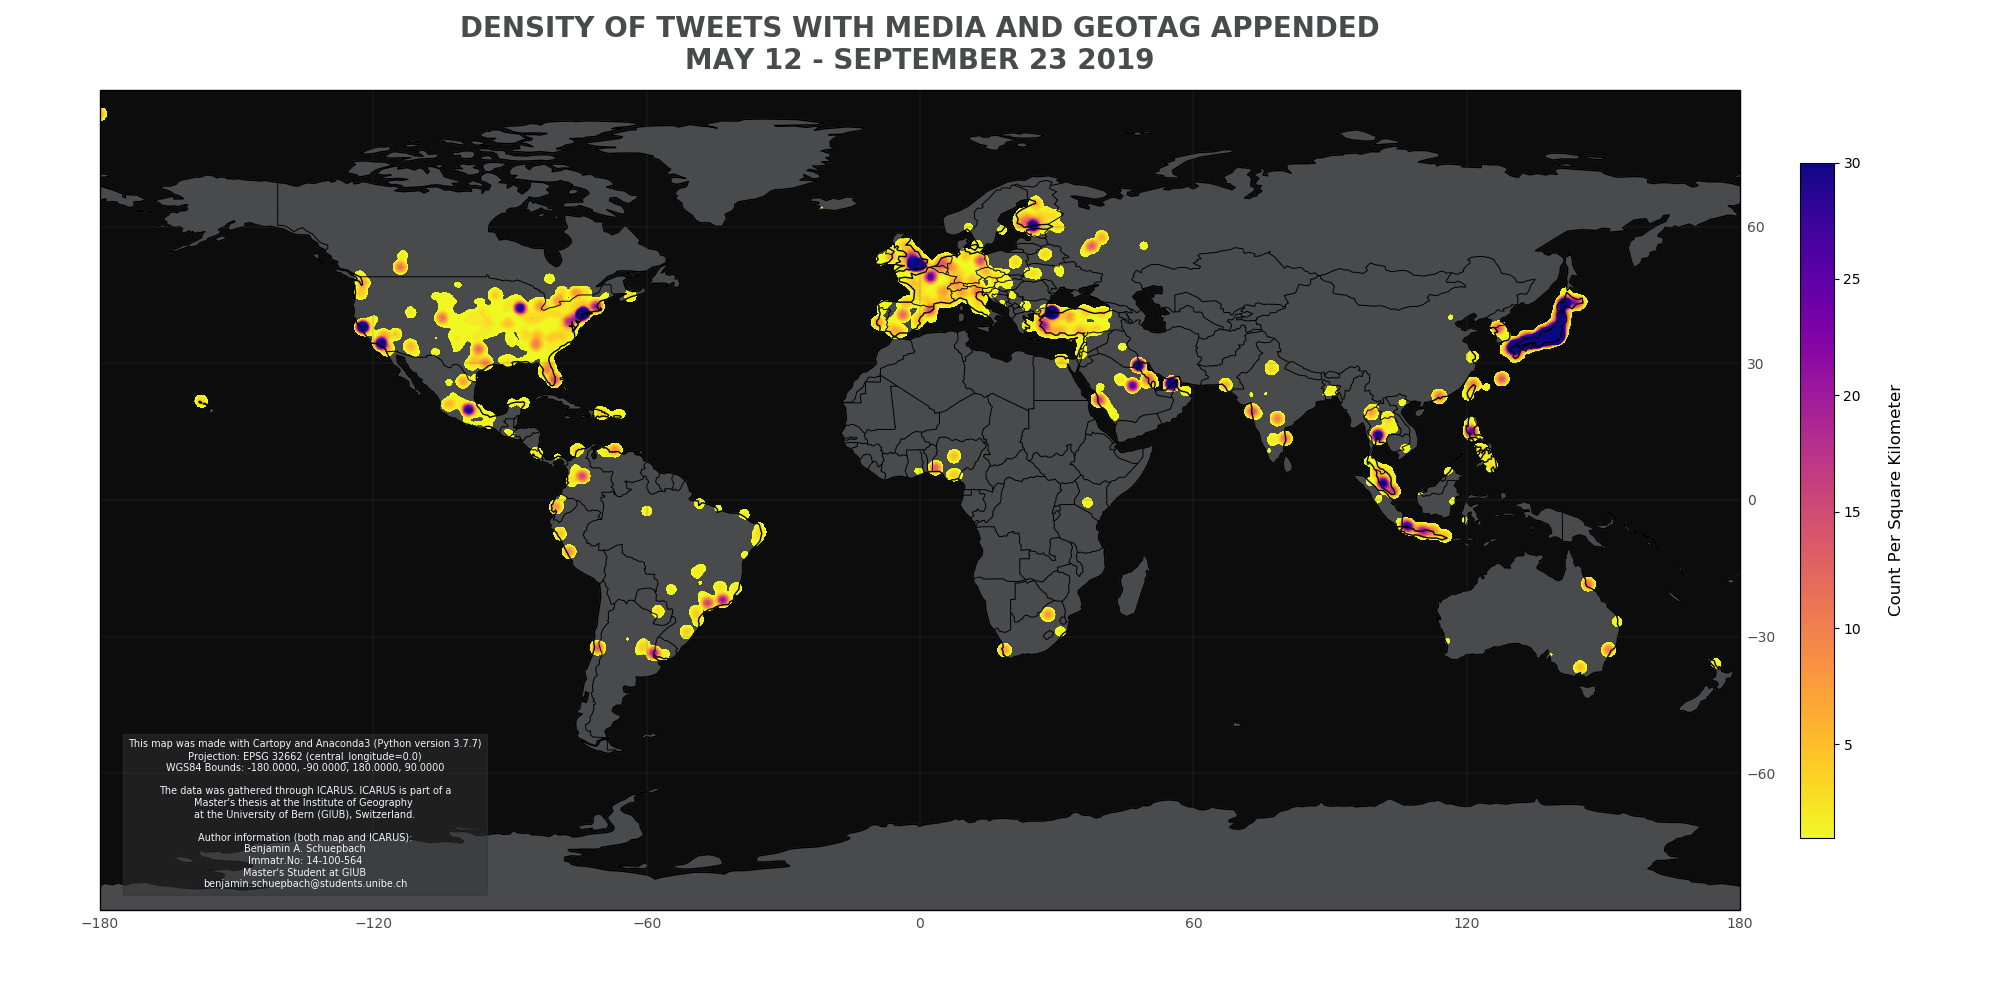
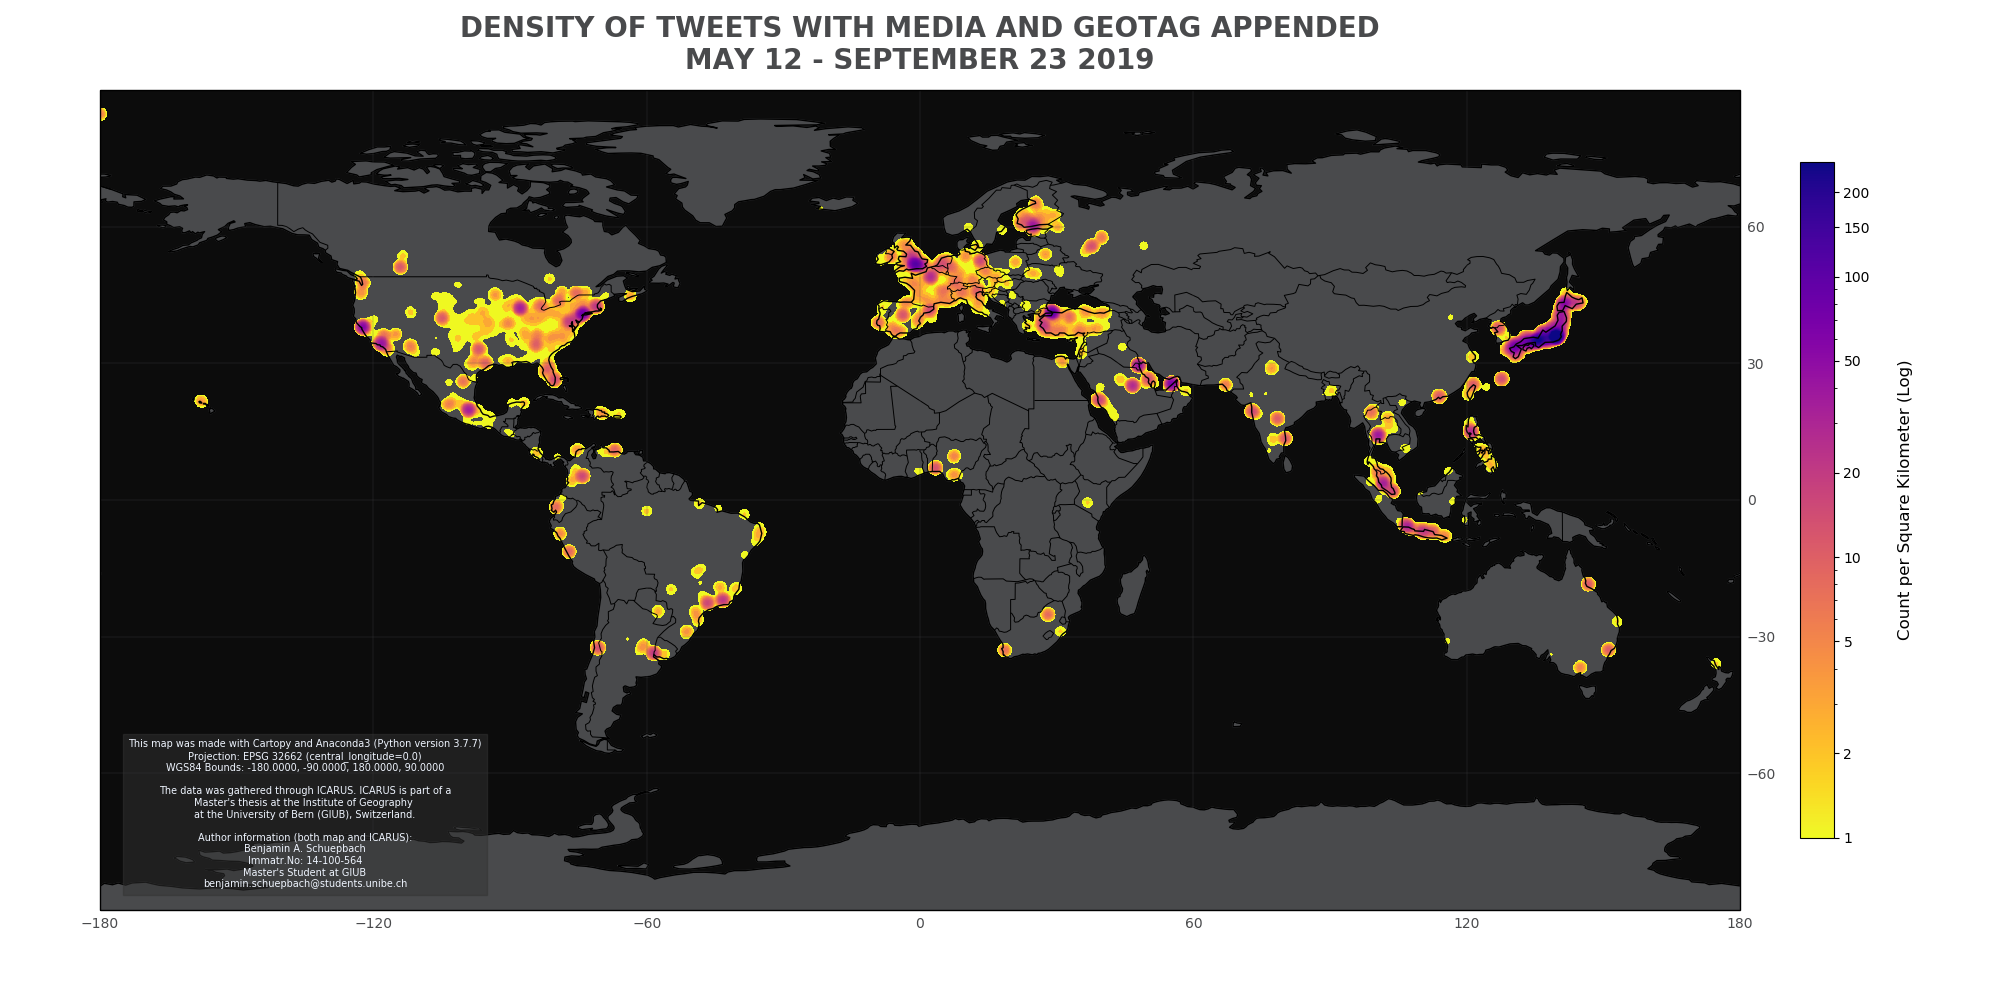
Density Mapping now complete with log scale

diff --git a/ICARUSmapper.py b/ICARUSmapper.py
@@ -7,7 +7,8 @@ from cartopy.io.shapereader import Reader
 from cartopy.feature import ShapelyFeature
 from matplotlib.image import imread
 import numpy as np
-from osgeo import gdal
+import matplotlib as mpl
+
 
 thresh = [0.9, 0.87, 0.85, 0.83, 0.8, 0.7, 0.6, 0.5]
 issLog = 'input_data/iss_log/ISS_info.txt'
@@ -447,7 +448,7 @@ def barebonesHarvests(proj, delimiter=', ', issLog=None):
     print("done\n")
     plt.show()
 
-def mapDensityFromImage():
+def mapHarvestDensityFromImage():
     # set up map, aspect ratio is 2:1
     fig_height = 20
     fig = plt.figure(figsize=(fig_height, fig_height / 2))
@@ -478,22 +479,23 @@ def mapDensityFromImage():
     npimg = np.where(npimg<0.00001,np.nan,npimg)
 
 
+
     print(npimg.shape)
 
-    #plot the map
-    map = plt.imshow(npimg[:,:,0], origin='upper', extent=[-180, 180, -86, 86], alpha=1, cmap=cm.plasma_r, transform=proj, vmax=30)
+    #plot the map, normalize the colors with a log scale
+    map = plt.imshow(npimg[:,:,0], origin='upper', extent=[-180, 180, -86, 86], alpha=1, norm=mpl.colors.LogNorm(), cmap=cm.plasma_r, transform=proj)
 
 
 
     # add colorbar and legend
-    bar = plt.colorbar(map, shrink=0.75, pad=0.03)
+    bar = plt.colorbar(map, shrink=0.75, pad=0.03, ticks=[1,2,5,10,20,50,100,150,200], format='%.f')
 
     #get rid of weird white lines in colorbar
     bar.set_alpha(1)
     bar.draw_all()
 
     #label the colorbar
-    bar.set_label("Count Per Square Kilometer", labelpad=20, fontsize=12)
+    bar.set_label("Count per Square Kilometer (Log)", labelpad=20, fontsize=12)
 
 
 
@@ -516,4 +518,4 @@ def mapDensityFromImage():
     print("Harvests mapped\n")
     # plt.show()
 
-mapDensityFromImage()
+mapHarvestDensityFromImage()
